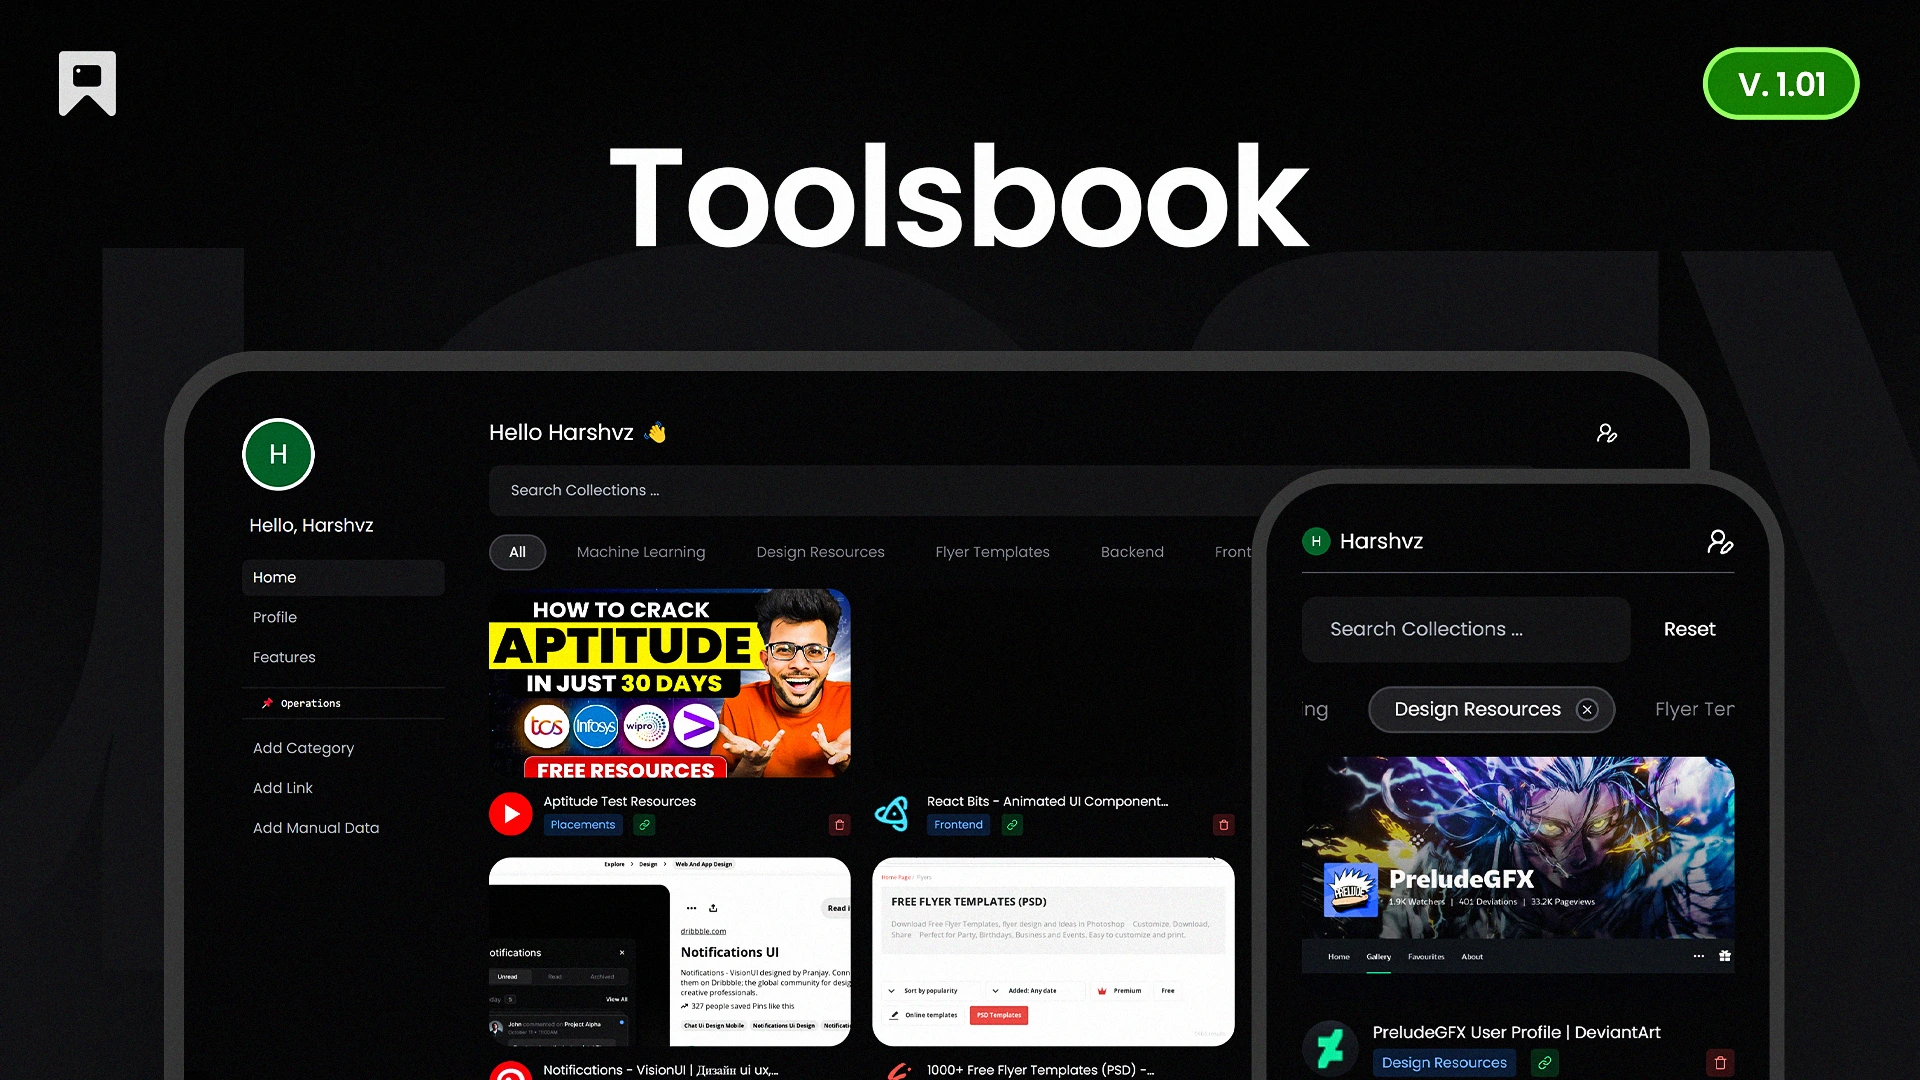
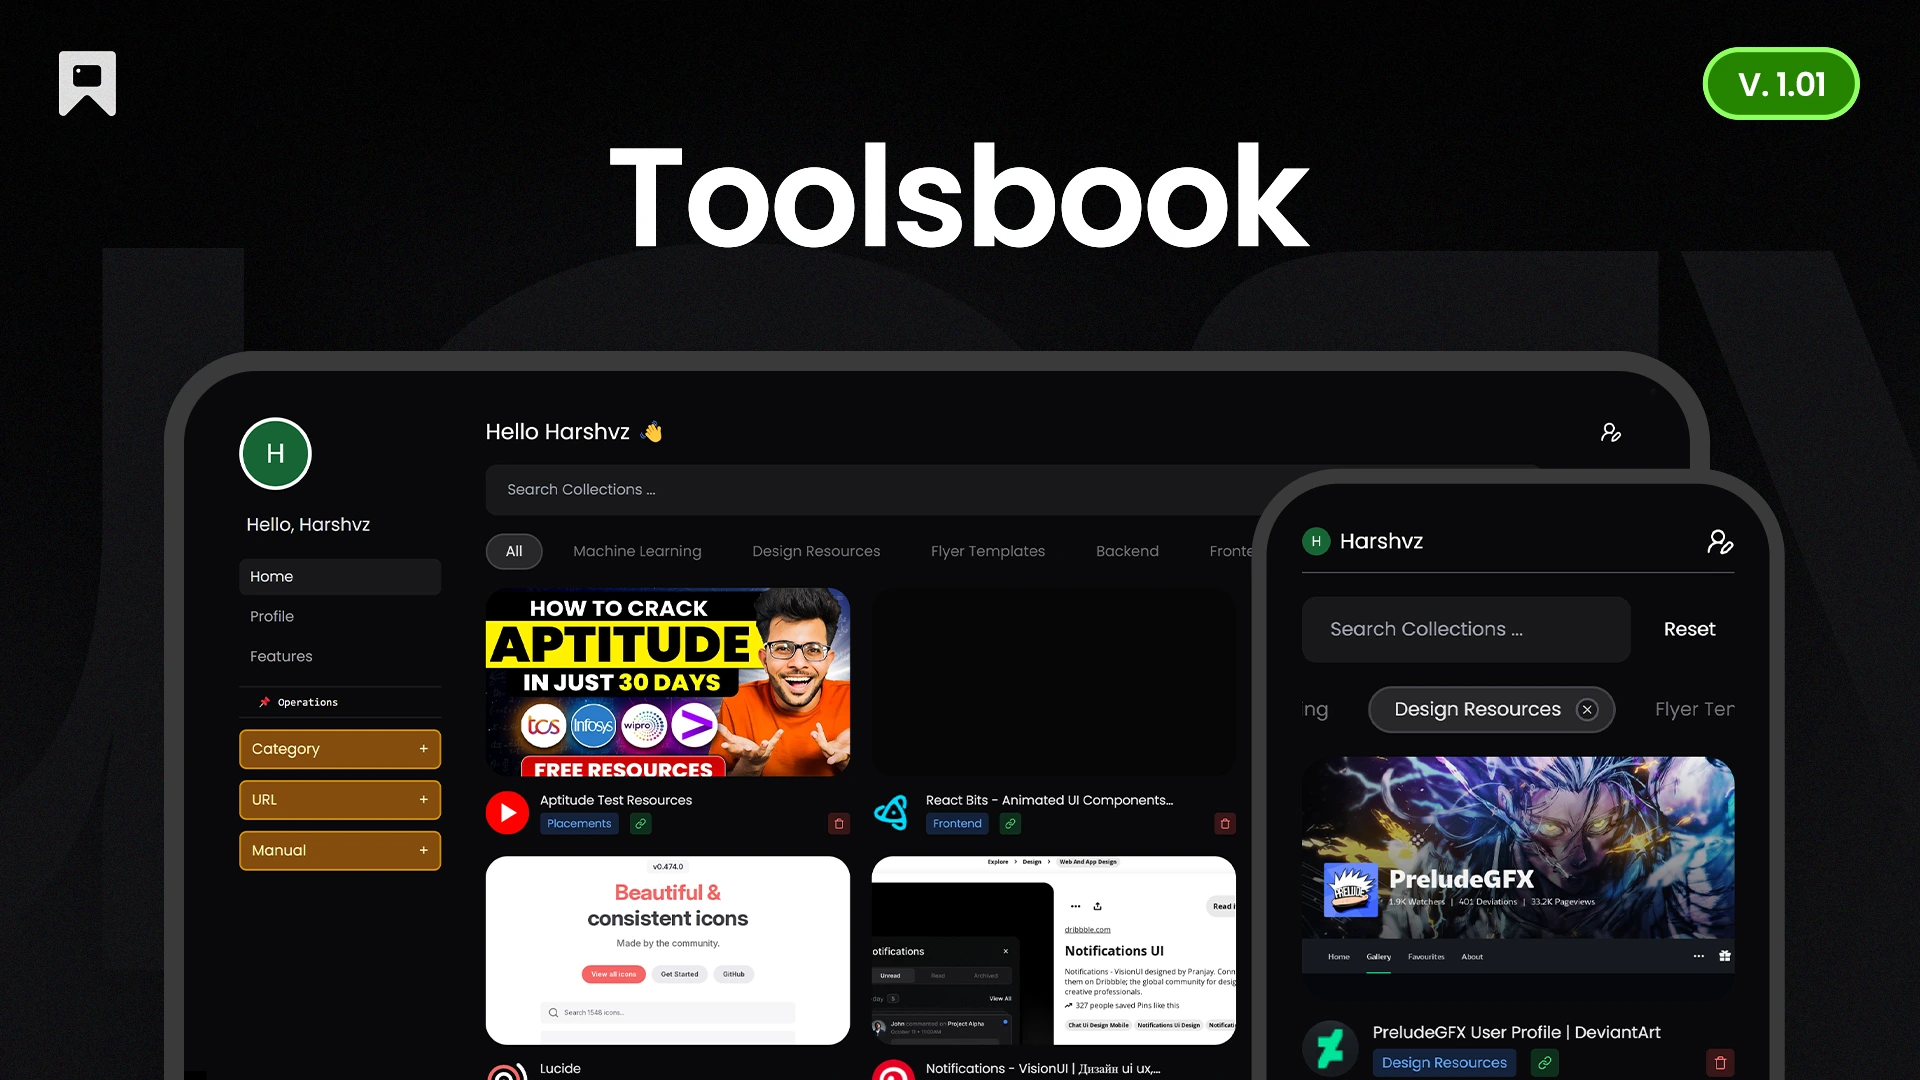
Readme Update

diff --git a/src/Components/Sidebar_Desktop.jsx b/src/Components/Sidebar_Desktop.jsx
@@ -103,10 +103,19 @@ const Sidebar_Desktop = ({isSidebarOpen, Title}) => {
 
                     <p className='text-white text-xs px-5 flex justify-start gap-3 border-t-2 border-b-2 border-zinc-900 py-2 items-center font-mono'>📌 Operations</p>
 
-                    <div className='mt-3 space-y-1'>
-                    <button onClick={() => setIsModalOpen(true)} className="flex items-center px-3 py-2 rounded-lg hover:bg-zinc-800 transition duration-300 text-zinc-400 hover:text-zinc-200 w-full gap-3">Add Category </button>
-            <button onClick={() => setIsModalOpen3(true)} className="flex items-center px-3 py-2 rounded-lg hover:bg-zinc-800 transition duration-300 text-zinc-400 hover:text-zinc-200 w-full">Add Link</button>
-            <button onClick={() => setIsModalOpen2(true)} className="flex items-center px-3 py-2 rounded-lg hover:bg-zinc-800 transition duration-300 text-zinc-400 hover:text-zinc-200 w-full">Add Manual Data</button>
+                    <div className='mt-3 space-y-3'>
+                    <button onClick={() => setIsModalOpen(true)} className="flex items-center px-3 py-2 rounded-lg hover:bg-yellow-900 bg-yellow-800 border-2 border-yellow-600 transition duration-300 text-yellow-100 hover:text-zinc-200 w-full gap-3 justify-between">
+                        <p>Category</p>
+                        <p>+</p>
+                    </button>
+            <button onClick={() => setIsModalOpen3(true)} className="flex items-center px-3 py-2 rounded-lg hover:bg-yellow-900 bg-yellow-800 border-2 border-yellow-600 transition duration-300 text-yellow-100 hover:text-zinc-200 w-full gap-3 justify-between">
+                <p>URL</p>
+                <p>+</p>
+            </button>
+            <button onClick={() => setIsModalOpen2(true)} className="flex items-center px-3 py-2 rounded-lg hover:bg-yellow-900 bg-yellow-800 border-2 border-yellow-600 transition duration-300 text-yellow-100 hover:text-zinc-200 w-full gap-3 justify-between">
+                <p>Manual</p>
+                <p>+</p>
+            </button>
 
                     </div>
                     {/* {category && category.map(cat => (
